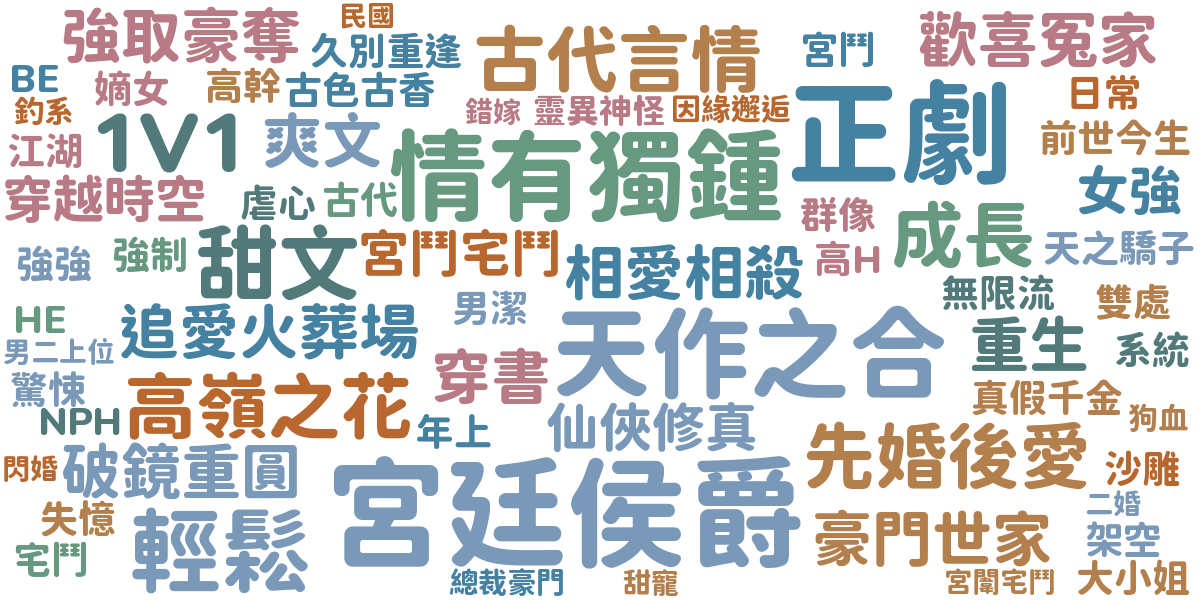
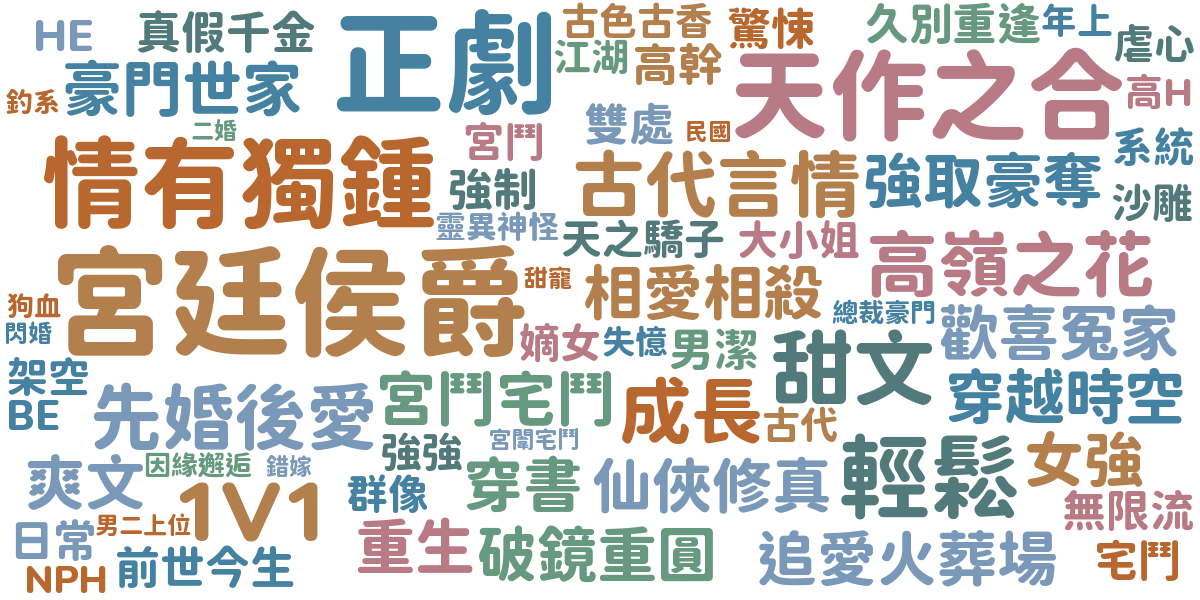
☁ Update reading word cloud via GitHub Actions

diff --git a/public/word_cloud.html b/public/word_cloud.html
@@ -23,6 +23,6 @@
     </style>
 </head>
 <body>
-    <img src="word_cloud.png?t=1774226268" alt="Word Cloud">
+    <img src="word_cloud.png?t=1774312268" alt="Word Cloud">
 </body>
 </html>
